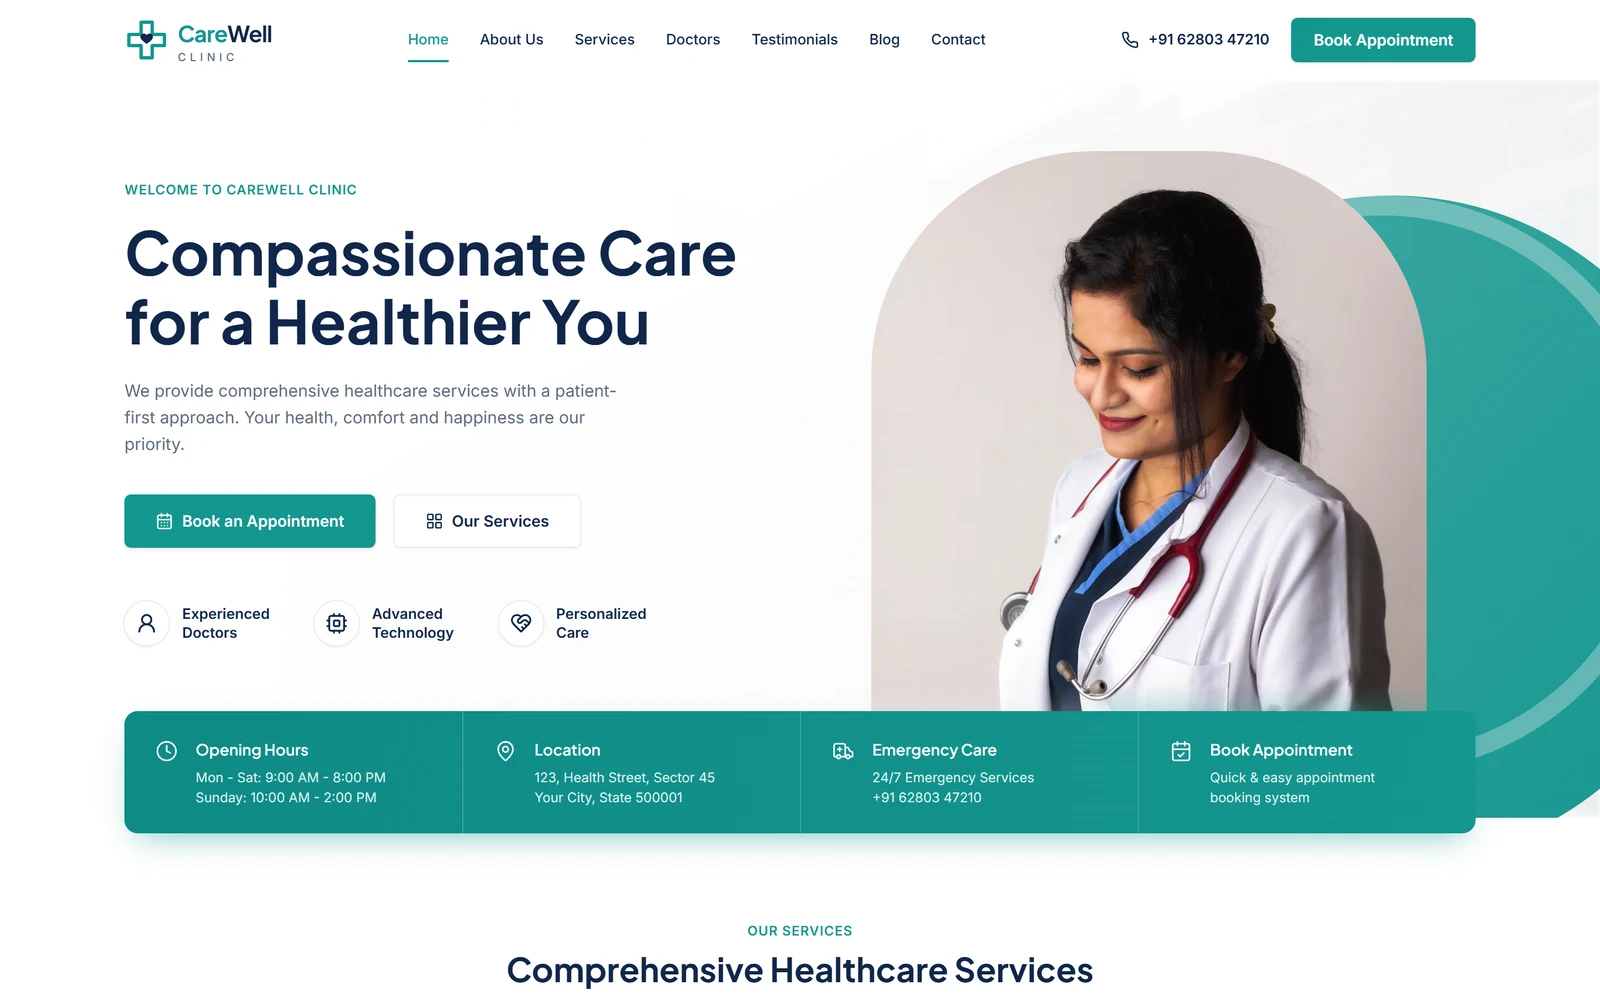
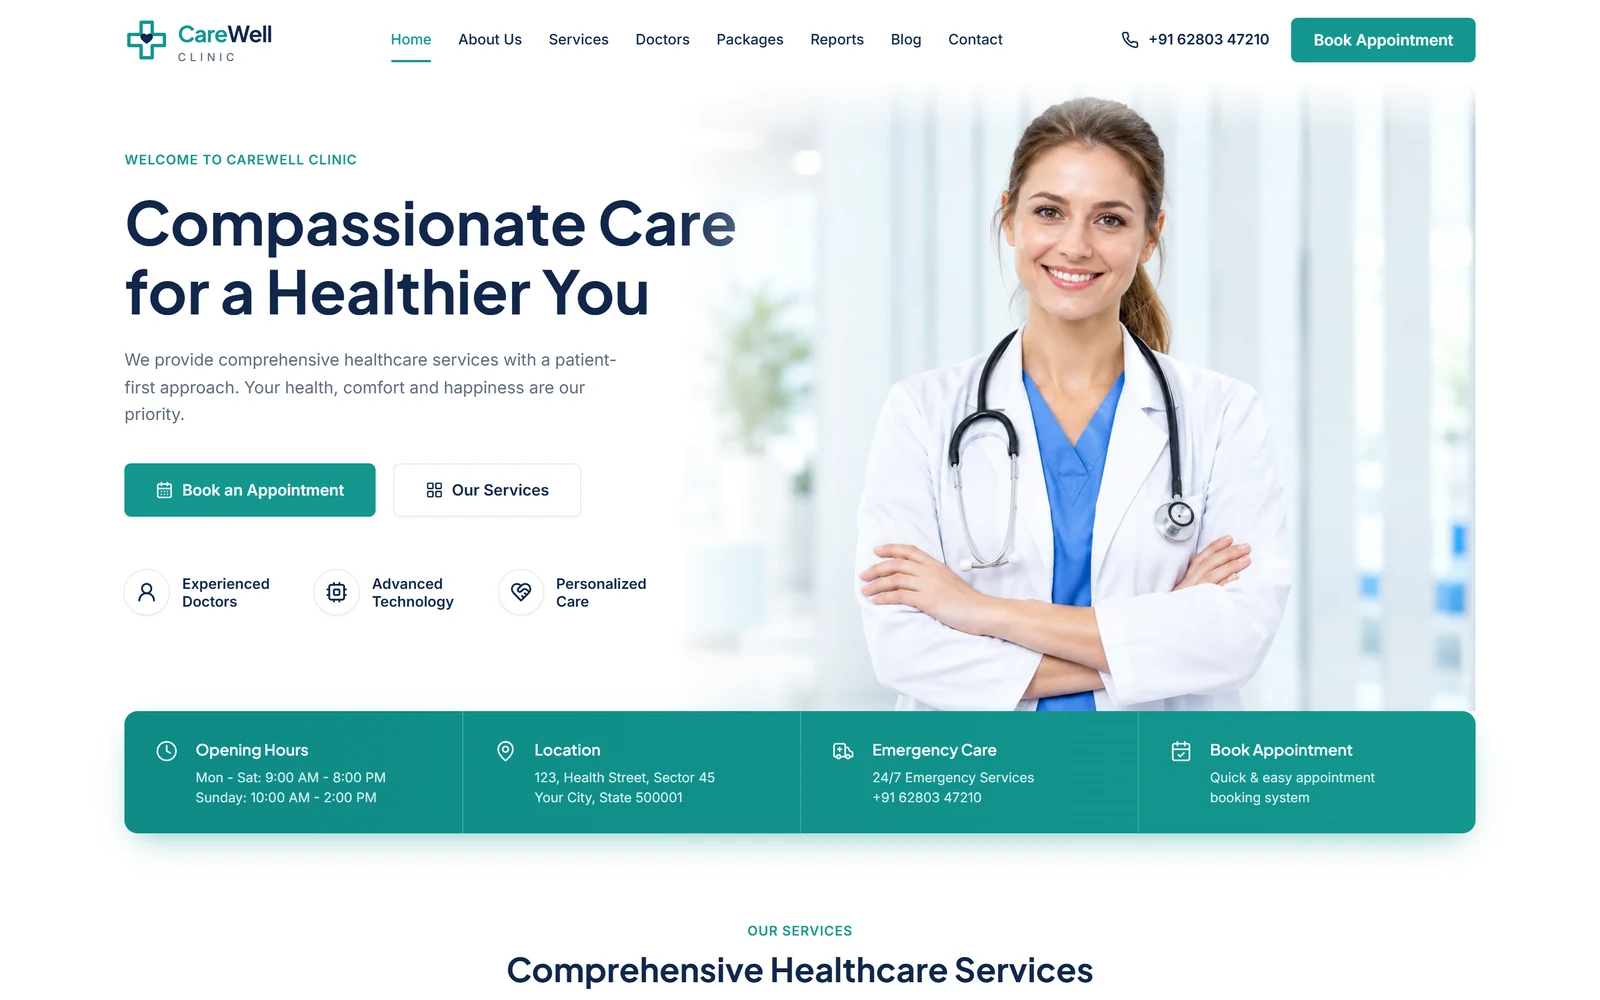
Update the README for the new pages and refresh its screenshots

diff --git a/README.md b/README.md
@@ -1,6 +1,6 @@
 # CareWell Clinic — Clinic Website Template
 
-A complete multi-page website for a clinic or medical practice, built with React, Vite, Tailwind CSS v4 and shadcn/ui. It includes a home page, eight service pages, a doctors directory with a speciality filter, patient testimonials, a health blog, an appointment booking form, contact, FAQs and legal pages.
+A complete multi-page website for a clinic or medical practice, built with React, Vite, Tailwind CSS v4 and shadcn/ui. It includes a home page, eight service pages, a doctors directory with a speciality filter, health check-up packages, an online lab report lookup, an appointment booking form, a health blog, a gallery, careers, a FAQ page, contact and legal pages.
 
 **[Live demo](https://carewellclinic.codespanda.com/)** · **[Template page](https://codespanda.com/templates/carewell-clinic)** · **[Documentation](https://codespanda.com/templates/carewell-clinic/docs)**
 
@@ -8,11 +8,16 @@ A complete multi-page website for a clinic or medical practice, built with React
 
 ## Features
 
-- **12 routed pages** — Home, About, Services, a page per service, Doctors, Testimonials, Blog, a page per post, Contact, Appointment, Privacy Policy, Terms and a 404 page.
+- **16 routed pages** — Home, About, Services, a page per service, Doctors, Packages, Reports, FAQ, Gallery, Careers, Blog, a page per post, Contact, Appointment, Privacy Policy, Terms and a 404 page.
 - **Doctors directory** — 8 doctors with a speciality filter, qualifications, experience and booking buttons.
+- **Health check-up packages** — 6 packages with prices, discounts and included tests.
+- **Lab report lookup** — patients search by report ID or mobile number to see test status and download reports.
 - **Appointment booking** — patient details, service, doctor, preferred date and time, with a confirmation screen.
-- **Health blog** — 6 articles with a listing page and individual post pages.
+- **Health blog, gallery and careers** — 6 articles, an 8-photo gallery and 5 job openings.
+- **FAQ page** — 13 questions in 4 groups.
 - **Fully responsive**, with shadcn/ui components and a calm teal design.
+
+![Health check-up packages](docs/packages.webp)
 
 ![Doctors directory](docs/doctors.webp)
 
@@ -45,13 +50,14 @@ Open [http://localhost:5173](http://localhost:5173).
 
 ```text
 src/
-  pages/            Home, About, Services, ServiceDetail, DoctorsPage, TestimonialsPage,
-                    Blog, BlogPost, Contact, Appointment, Legal, NotFound
+  pages/            Home, About, Services, ServiceDetail, DoctorsPage, Packages, Reports,
+                    Faq, Gallery, Careers, Blog, BlogPost, Contact, Appointment, Legal, NotFound
   components/
     layout/         Layout, Navbar and Footer
     sections/       Hero, InfoBar, ServicesGrid, WhyChoose, Doctors, Testimonials, CtaBanner
     ui/             shadcn/ui primitives
-  data/site.js      Contact details, services, doctors, testimonials, posts, stats, FAQs
+  data/site.js      Contact details, navigation, services, doctors, testimonials, posts, stats
+  data/extra.js     Health packages, sample lab reports, gallery, jobs, FAQs
   App.jsx           Routes
   index.css         Theme colors and Tailwind setup
 public/CNAME        Custom domain for GitHub Pages
@@ -59,11 +65,12 @@ public/CNAME        Custom domain for GitHub Pages
 
 ## Make it your own
 
-- **Content** — almost everything lives in `src/data/site.js`: contact details and hours, navigation, services, doctors, testimonials, blog posts, stats and FAQs. Service and blog pages are generated from it.
+- **Content** — `src/data/site.js` holds contact details and hours, navigation, services, doctors, testimonials, blog posts and stats; service and blog pages are generated from it. `src/data/extra.js` holds the health packages, sample lab reports, gallery photos, job openings and FAQs.
 - **Photos** — they're loaded from Unsplash URLs in the `images` entries of `site.js`. Add your own photos to `public/` and point the entries at them before launch.
 - **Colors** — edit the CSS variables in `:root` in `src/index.css` (the brand teal is `--primary: #14968f`). Tailwind and the shadcn/ui components pick them up.
 - **Title and description** — edit `index.html`.
 - **Forms** — the appointment and contact forms show a confirmation but don't send anything yet. Connect them to a form service, email API or booking system in `src/pages/Appointment.jsx` and `src/pages/Contact.jsx`.
+- **Lab reports** — the lookup searches the sample reports in `extra.js` (try report ID `CW-24101`). Replace `findReports` in `src/pages/Reports.jsx` with a call to your lab system before going live.
 
 ![Appointment booking](docs/appointment.webp)
 
